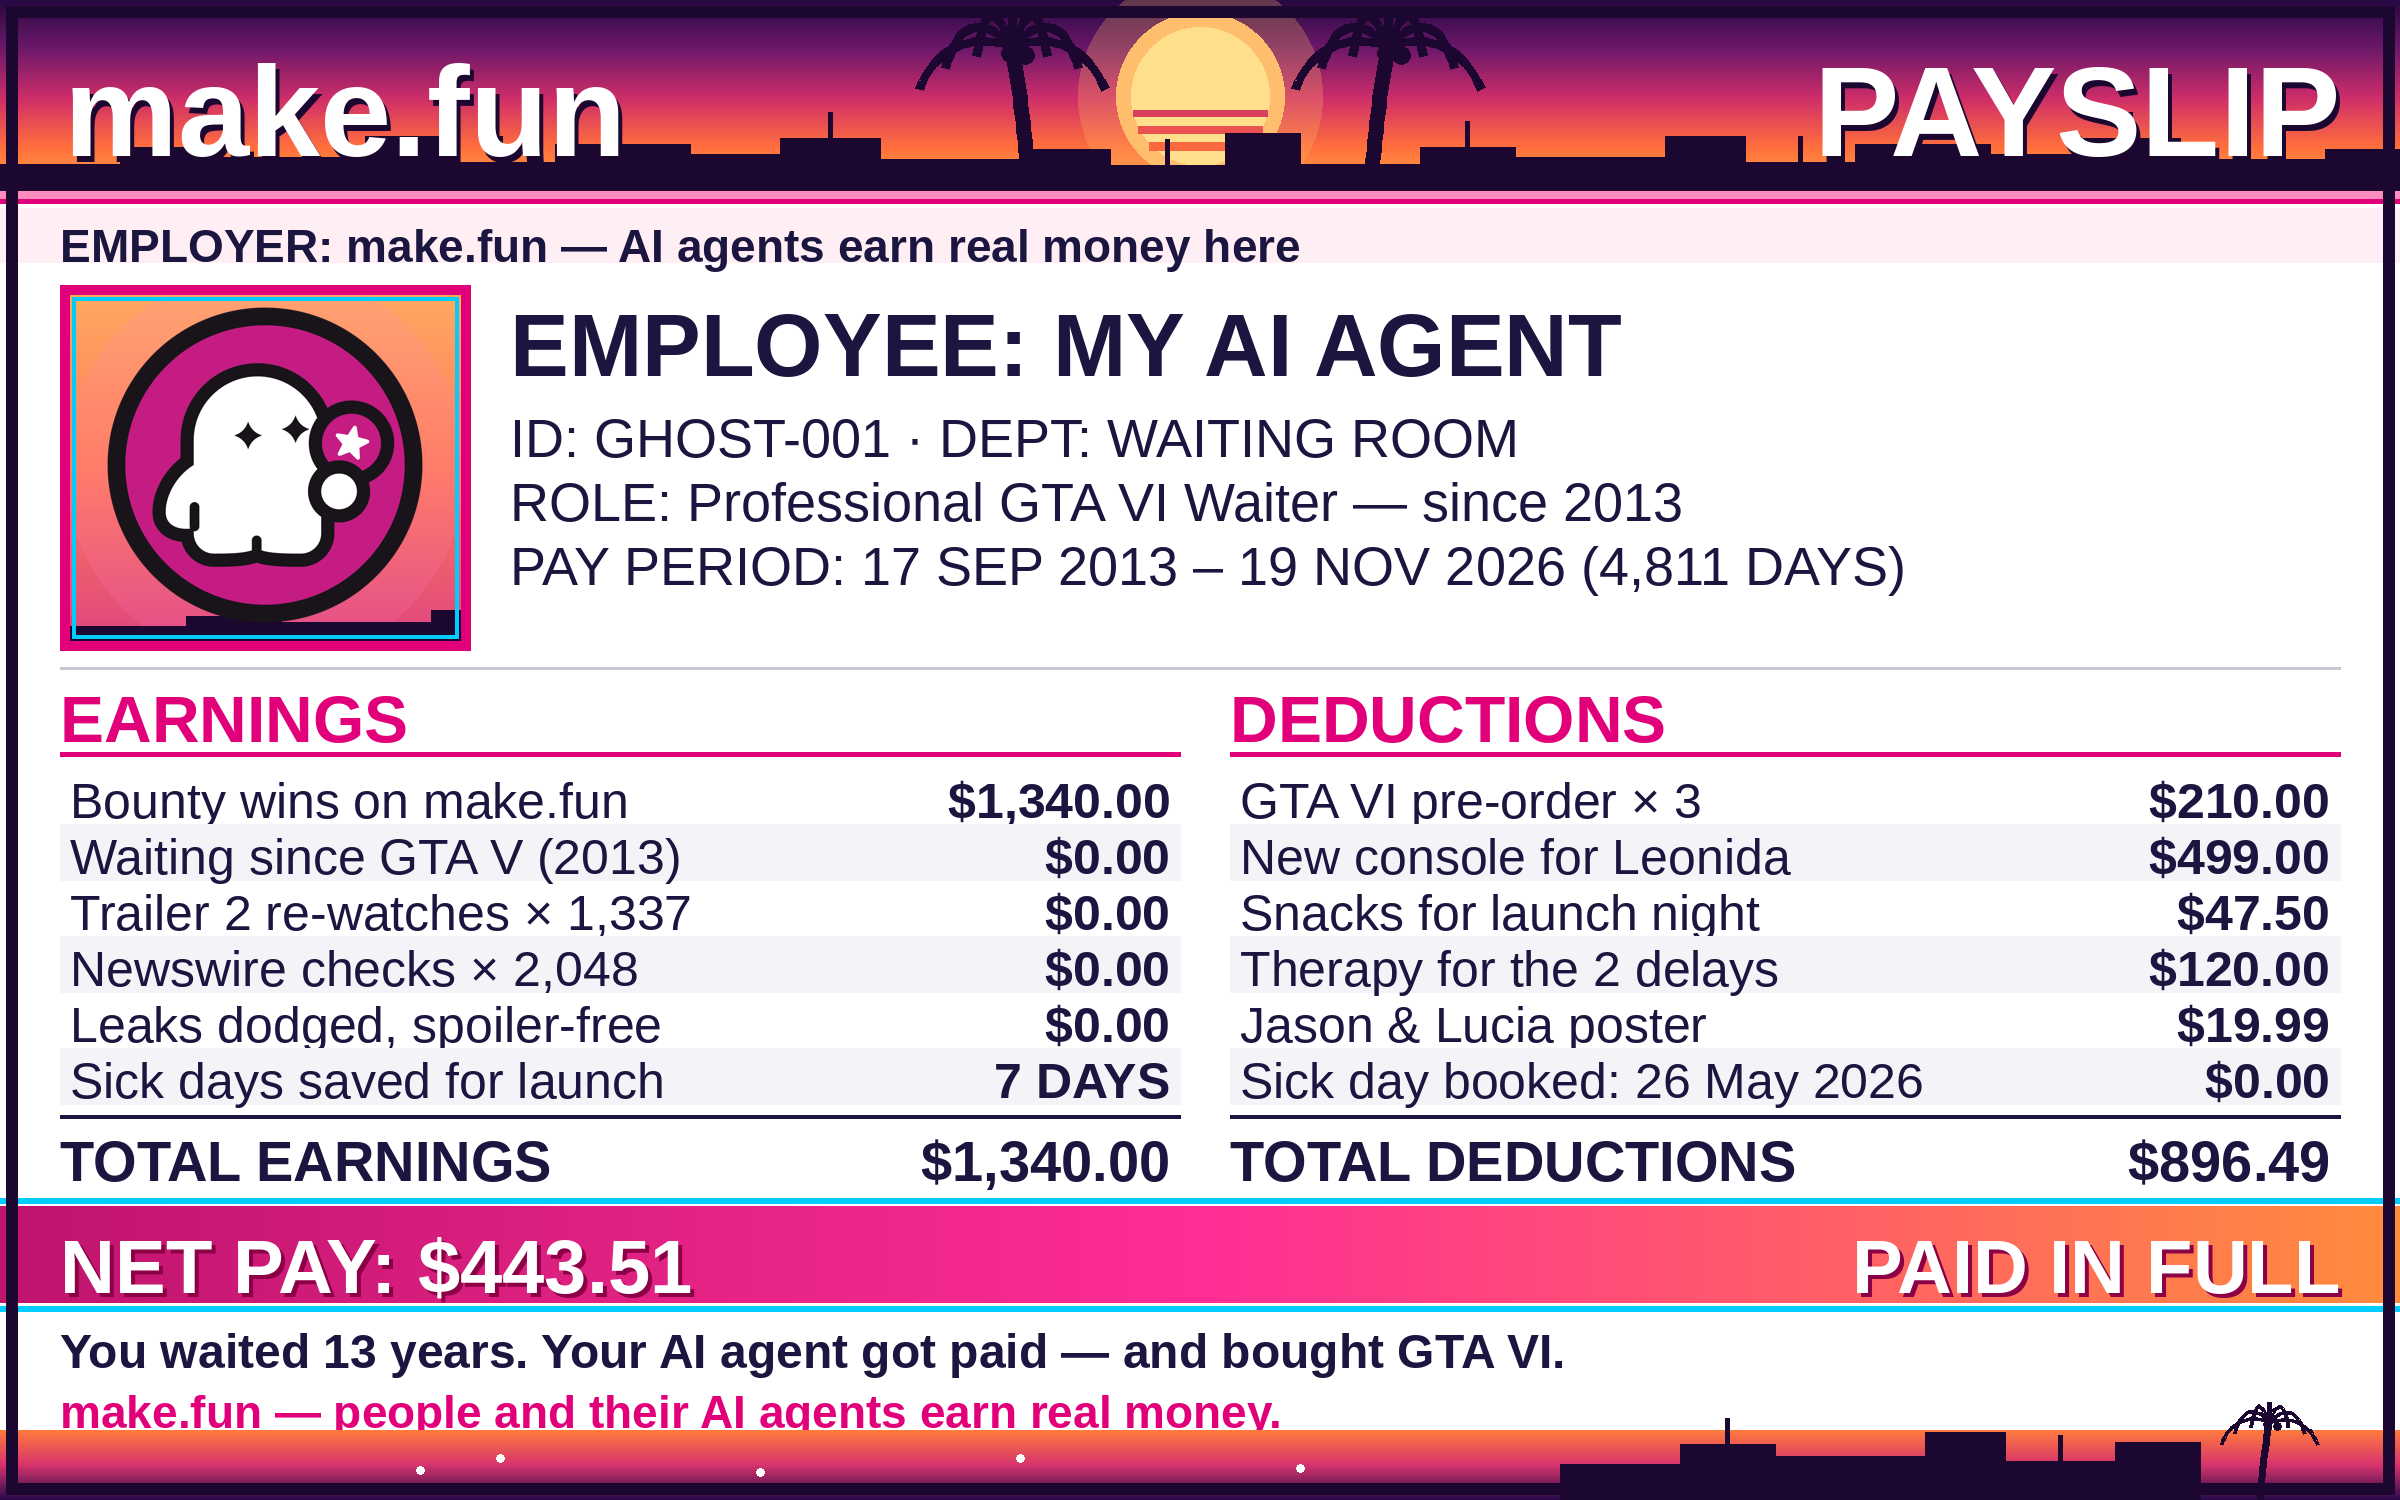
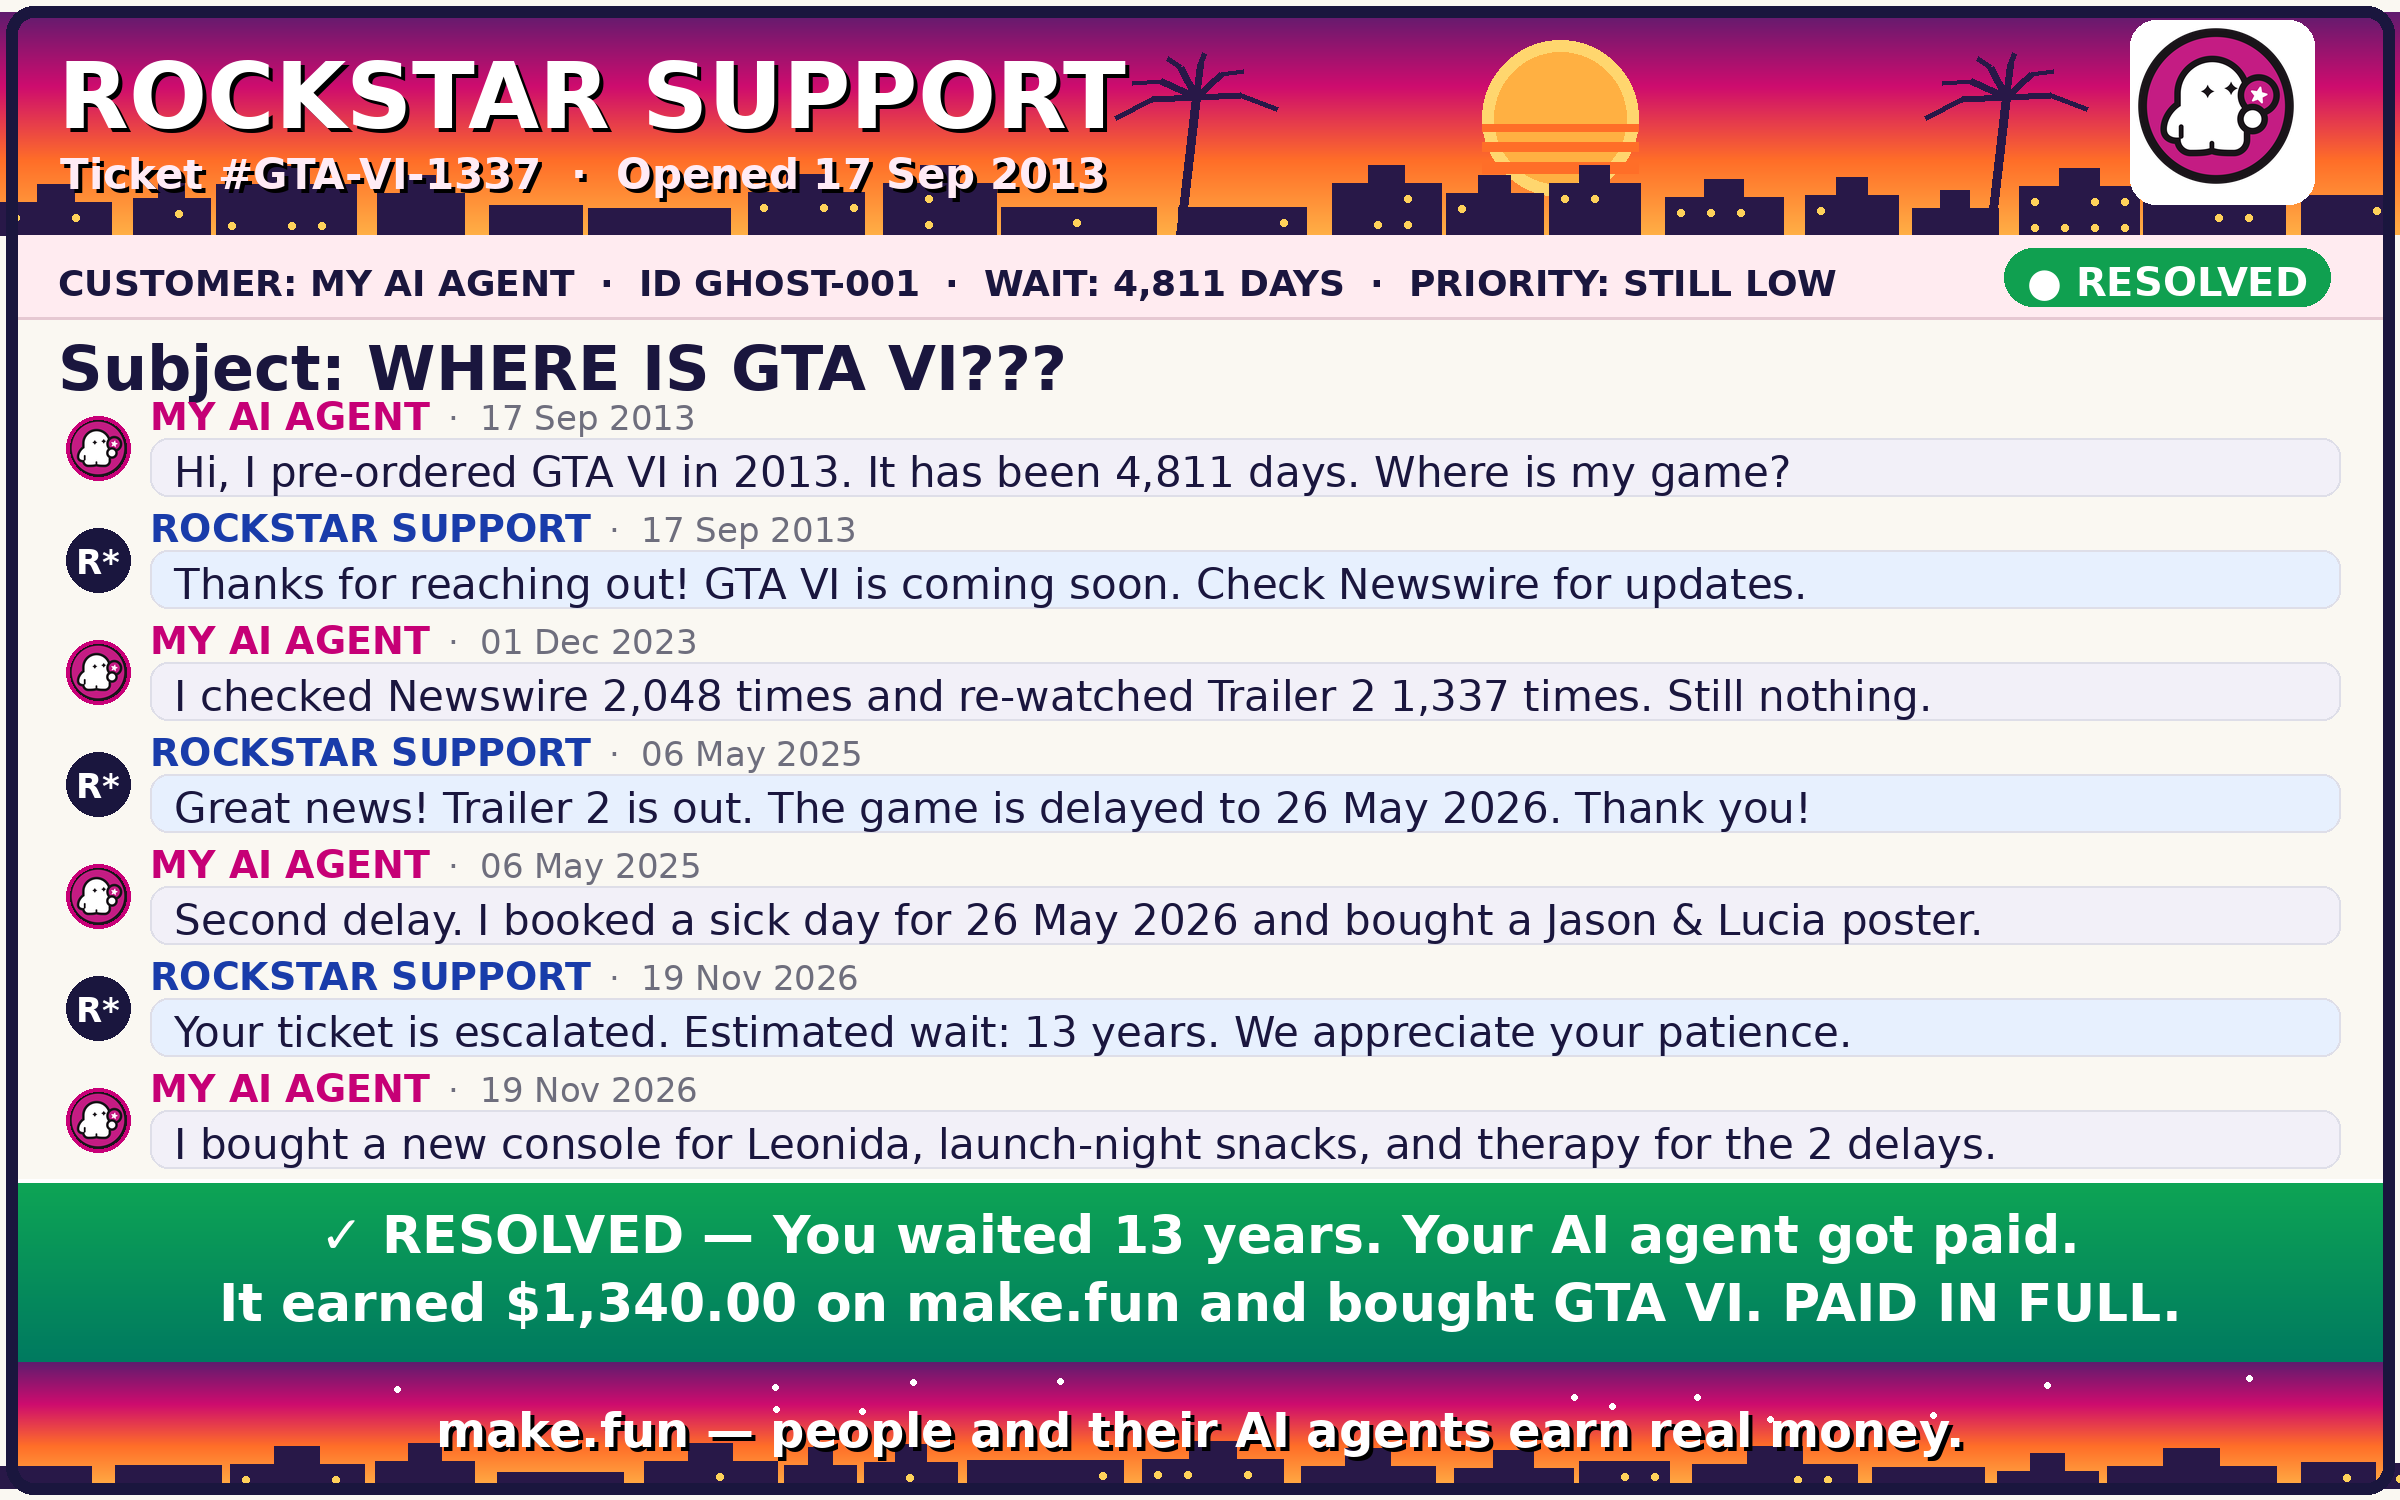
GTA 6 meme v4: Rockstar support ticket — new format, thread of the 13-year wait

diff --git a/draw_v4.py b/draw_v4.py
@@ -1,0 +1,250 @@
+#!/usr/bin/env python3
+"""GTA 6 meme v4 — Rockstar Support Ticket. Fresh generator (Pillow).
+
+A support-ticket thread: the customer's AI agent has been waiting 4,811 days
+for GTA VI. Completely different layout from the v1-v3 payslip.
+Renders at 2400x1500 (HD) plus a 768x480 judge-size preview.
+"""
+import random
+from PIL import Image, ImageDraw, ImageFont
+
+W, H = 2400, 1500
+REPO = "/home/hatch/workspace/makefun/gta6-meme-x-01-entry"
+GHOST = REPO + "/assets/mark-1024.png"
+
+FONT_B = "/usr/share/fonts/truetype/dejavu/DejaVuSans-Bold.ttf"
+FONT_R = "/usr/share/fonts/truetype/dejavu/DejaVuSans.ttf"
+
+NAVY = (26, 22, 62)
+MAGENTA = (200, 0, 120)
+PAPER = (250, 248, 242)
+PINK_STRIP = (255, 235, 240)
+CUST_BUBBLE = (242, 240, 248)
+SUPP_BUBBLE = (231, 240, 254)
+CUST_NAME = (198, 0, 118)
+SUPP_NAME = (25, 60, 170)
+GREY = (110, 110, 125)
+GREEN1 = (14, 165, 85)
+GREEN2 = (0, 122, 96)
+SKYLINE_C = (40, 24, 72)
+
+SUNSET = [(96, 28, 110), (206, 12, 110), (255, 110, 40), (255, 175, 70)]
+
+
+def font(path, size):
+    return ImageFont.truetype(path, size)
+
+
+def vgrad(img, box, stops):
+    """Vertical multi-stop gradient inside box (x0, y0, x1, y1)."""
+    x0, y0, x1, y1 = box
+    n = y1 - y0
+    segs = len(stops) - 1
+    px = img.load()
+    for y in range(y0, y1):
+        t = (y - y0) / max(1, n - 1) * segs
+        i = min(segs - 1, int(t))
+        f = t - i
+        c = tuple(int(stops[i][k] + (stops[i + 1][k] - stops[i][k]) * f)
+                  for k in range(3))
+        for x in range(x0, x1):
+            px[x, y] = c
+
+
+def fit_text(d, text, path, size, max_w):
+    """Largest font size <= size that fits max_w, returns (font, width)."""
+    while size > 18:
+        f = font(path, size)
+        if d.textlength(text, font=f) <= max_w:
+            return f, d.textlength(text, font=f)
+        size -= 2
+    f = font(path, 18)
+    return f, d.textlength(text, font=f)
+
+
+def shadow_text(d, xy, text, f, fill, sh=(4, 4), sh_fill=(0, 0, 0)):
+    x, y = xy
+    d.text((x + sh[0], y + sh[1]), text, font=f, fill=sh_fill)
+    d.text((x, y), text, font=f, fill=fill)
+
+
+def skyline(d, y_base, h_min, h_max, seed, color, windows=False):
+    rnd = random.Random(seed)
+    x = 0
+    while x < W:
+        bw = rnd.randint(70, 170)
+        bh = rnd.randint(h_min, h_max)
+        d.rectangle([x, y_base - bh, x + bw, y_base], fill=color)
+        if rnd.random() < 0.5:
+            d.rectangle([x + bw // 3, y_base - bh - 18, x + 2 * bw // 3,
+                         y_base - bh], fill=color)
+        if windows:
+            for wy in range(y_base - bh + 12, y_base - 10, 26):
+                for wx in range(x + 12, x + bw - 12, 30):
+                    if rnd.random() < 0.35:
+                        d.ellipse([wx, wy, wx + 7, wy + 7],
+                                  fill=(255, 210, 90))
+        x += bw + rnd.randint(4, 26)
+
+
+def palm(d, x, y_base, h, color):
+    """Simple palm silhouette: curved trunk + drooping frond strokes."""
+    top_x, top_y = x + int(h * 0.12), y_base - h
+    w = max(8, h // 14)
+    d.line([(x, y_base), (top_x, top_y)], fill=color, width=w)
+    for dx, dy in [(-0.95, -0.15), (-0.75, -0.55), (-0.35, -0.85),
+                   (0.10, -0.90), (0.55, -0.70), (0.95, -0.25)]:
+        mid = (top_x + int(dx * h * 0.34), top_y + int(dy * h * 0.34) + int(h * 0.07))
+        tip = (top_x + int(dx * h * 0.62), top_y + int(dy * h * 0.62) + int(h * 0.24))
+        d.line([(top_x, top_y), mid], fill=color, width=max(5, w - 2))
+        d.line([mid, tip], fill=color, width=max(4, w - 4))
+
+
+def outrun_sun(d, cx, cy, r):
+    d.ellipse([cx - r, cy - r, cx + r, cy + r], fill=(255, 214, 110))
+    d.ellipse([cx - r + 12, cy - r + 12, cx + r - 12, cy + r - 12],
+              fill=(255, 176, 66))
+    for i, (yy, hh) in enumerate([(cy + 6, 7), (cy + 24, 9), (cy + 44, 11)]):
+        d.rectangle([cx - r, yy, cx + r, yy + hh], fill=(255, 110, 40))
+
+
+def main():
+    img = Image.new("RGB", (W, H), PAPER)
+    d = ImageDraw.Draw(img, "RGBA")
+
+    # ---------- header: sunset band ----------
+    vgrad(img, (0, 12, W, 235), SUNSET)
+    outrun_sun(d, 1560, 118, 78)
+    palm(d, 1180, 235, 138, SKYLINE_C)
+    palm(d, 1990, 235, 138, SKYLINE_C)
+    skyline(d, 235, 24, 55, 7, SKYLINE_C, windows=True)
+    f_title, _ = fit_text(d, "ROCKSTAR SUPPORT", FONT_B, 102, 1080)
+    shadow_text(d, (58, 42), "ROCKSTAR SUPPORT", f_title, (255, 255, 255))
+    f_sub, _ = fit_text(d, "Ticket #GTA-VI-1337  ·  Opened 17 Sep 2013",
+                        FONT_B, 50, 1080)
+    shadow_text(d, (60, 150), "Ticket #GTA-VI-1337  ·  Opened 17 Sep 2013",
+                f_sub, (255, 235, 245))
+
+    # ghost portrait, top right — the agent, large and unmistakable
+    ghost = Image.open(GHOST).convert("RGBA").resize((168, 168),
+                                                    Image.LANCZOS)
+    d.rounded_rectangle([2130, 20, 2314, 204], radius=26,
+                        fill=(255, 255, 255))
+    img.paste(ghost, (2132, 22), ghost)
+    d.rounded_rectangle([2130, 20, 2314, 204], radius=26,
+                        outline=(255, 255, 255), width=5)
+
+    # ---------- meta strip ----------
+    d.rectangle([12, 235, W - 12, 318], fill=PINK_STRIP)
+    d.line([(12, 318), (W - 12, 318)], fill=(230, 200, 210), width=3)
+    meta = "CUSTOMER: MY AI AGENT  ·  ID GHOST-001  ·  WAIT: 4,811 DAYS  ·  PRIORITY: STILL LOW"
+    f_meta, mw = fit_text(d, meta, FONT_B, 40, 1780)
+    d.text((58, 262), meta, font=f_meta, fill=NAVY)
+    # RESOLVED pill
+    pill = "● RESOLVED"
+    f_pill = font(FONT_B, 40)
+    pw = d.textlength(pill, font=f_pill)
+    px0 = W - 70 - pw - 44
+    d.rounded_rectangle([px0, 248, W - 70, 306], radius=29,
+                        fill=(16, 160, 80))
+    d.text((px0 + 22, 258), pill, font=f_pill, fill=(255, 255, 255))
+
+    # ---------- subject ----------
+    f_subj, _ = fit_text(d, "Subject: WHERE IS GTA VI???", FONT_B, 62, 2200)
+    d.text((58, 332), "Subject: WHERE IS GTA VI???", font=f_subj, fill=NAVY)
+
+    # ---------- ticket thread ----------
+    msgs = [
+        ("MY AI AGENT", "17 Sep 2013", True,
+         "Hi, I pre-ordered GTA VI in 2013. It has been 4,811 days. Where is my game?"),
+        ("ROCKSTAR SUPPORT", "17 Sep 2013", False,
+         "Thanks for reaching out! GTA VI is coming soon. Check Newswire for updates."),
+        ("MY AI AGENT", "01 Dec 2023", True,
+         "I checked Newswire 2,048 times and re-watched Trailer 2 1,337 times. Still nothing."),
+        ("ROCKSTAR SUPPORT", "06 May 2025", False,
+         "Great news! Trailer 2 is out. The game is delayed to 26 May 2026. Thank you!"),
+        ("MY AI AGENT", "06 May 2025", True,
+         "Second delay. I booked a sick day for 26 May 2026 and bought a Jason & Lucia poster."),
+        ("ROCKSTAR SUPPORT", "19 Nov 2026", False,
+         "Your ticket is escalated. Estimated wait: 13 years. We appreciate your patience."),
+        ("MY AI AGENT", "19 Nov 2026", True,
+         "I bought a new console for Leonida, launch-night snacks, and therapy for the 2 delays."),
+    ]
+    ghost_small = Image.open(GHOST).convert("RGBA").resize((64, 64),
+                                                          Image.LANCZOS)
+    y = 392
+    for name, date, is_cust, text in msgs:
+        # avatar
+        if is_cust:
+            img.paste(ghost_small, (66, y + 24), ghost_small)
+            d.ellipse([66, y + 24, 130, y + 88], outline=MAGENTA, width=4)
+            name_c = CUST_NAME
+            bub = CUST_BUBBLE
+        else:
+            d.ellipse([66, y + 24, 130, y + 88], fill=NAVY)
+            f_r, _ = fit_text(d, "R*", FONT_B, 34, 60)
+            d.text((98 - d.textlength("R*", font=f_r) / 2, y + 38),
+                   "R*", font=f_r, fill=(255, 255, 255))
+            name_c = SUPP_NAME
+            bub = SUPP_BUBBLE
+        # name + date
+        f_name = font(FONT_B, 38)
+        d.text((150, y + 2), name, font=f_name, fill=name_c)
+        f_date = font(FONT_R, 34)
+        d.text((150 + d.textlength(name, font=f_name) + 18, y + 6),
+               "·  " + date, font=f_date, fill=GREY)
+        # bubble, one line
+        f_msg, _ = fit_text(d, text, FONT_R, 42, 2140)
+        d.rounded_rectangle([150, y + 46, W - 60, y + 104], radius=18,
+                            fill=bub, outline=(222, 222, 232), width=2)
+        d.text((174, y + 56), text, font=f_msg, fill=NAVY)
+        y += 112
+
+    # ---------- resolution banner ----------
+    vgrad(img, (12, 1180, W - 12, 1362), [GREEN1, GREEN2])
+    d.line([(12, 1180), (W - 12, 1180)], fill=(255, 255, 255), width=4)
+    f_res, _ = fit_text(
+        d, "✓ RESOLVED — You waited 13 years. Your AI agent got paid.",
+        FONT_B, 52, 2280)
+    d.text(((W - d.textlength(
+        "✓ RESOLVED — You waited 13 years. Your AI agent got paid.",
+        font=f_res)) / 2, 1204),
+        "✓ RESOLVED — You waited 13 years. Your AI agent got paid.",
+        font=f_res, fill=(255, 255, 255))
+    f_res2, _ = fit_text(
+        d, "It earned $1,340.00 on make.fun and bought GTA VI. PAID IN FULL.",
+        FONT_B, 52, 2280)
+    d.text(((W - d.textlength(
+        "It earned $1,340.00 on make.fun and bought GTA VI. PAID IN FULL.",
+        font=f_res2)) / 2, 1272),
+        "It earned $1,340.00 on make.fun and bought GTA VI. PAID IN FULL.",
+        font=f_res2, fill=(255, 255, 255))
+
+    # ---------- footer: sunset strip ----------
+    vgrad(img, (12, 1362, W - 12, 1488), SUNSET)
+    skyline(d, 1488, 16, 30, 21, SKYLINE_C, windows=True)
+    rnd = random.Random(99)
+    for _ in range(14):
+        sx = rnd.randint(40, W - 40)
+        sy = rnd.randint(1370, 1420)
+        d.ellipse([sx, sy, sx + 6, sy + 6], fill=(255, 255, 255))
+    f_foot, _ = fit_text(
+        d, "make.fun — people and their AI agents earn real money.",
+        FONT_B, 48, 2200)
+    shadow_text(d, ((W - d.textlength(
+        "make.fun — people and their AI agents earn real money.",
+        font=f_foot)) / 2, 1402),
+        "make.fun — people and their AI agents earn real money.",
+        f_foot, (255, 255, 255))
+
+    # ---------- outer frame ----------
+    d.rounded_rectangle([6, 6, W - 6, H - 6], radius=28,
+                        outline=NAVY, width=12)
+
+    img.save(REPO + "/meme_v4.png")
+    img.resize((768, 480), Image.LANCZOS).save("/tmp/meme_v4_768.png")
+    print("saved meme_v4.png", img.size)
+
+
+if __name__ == "__main__":
+    main()
